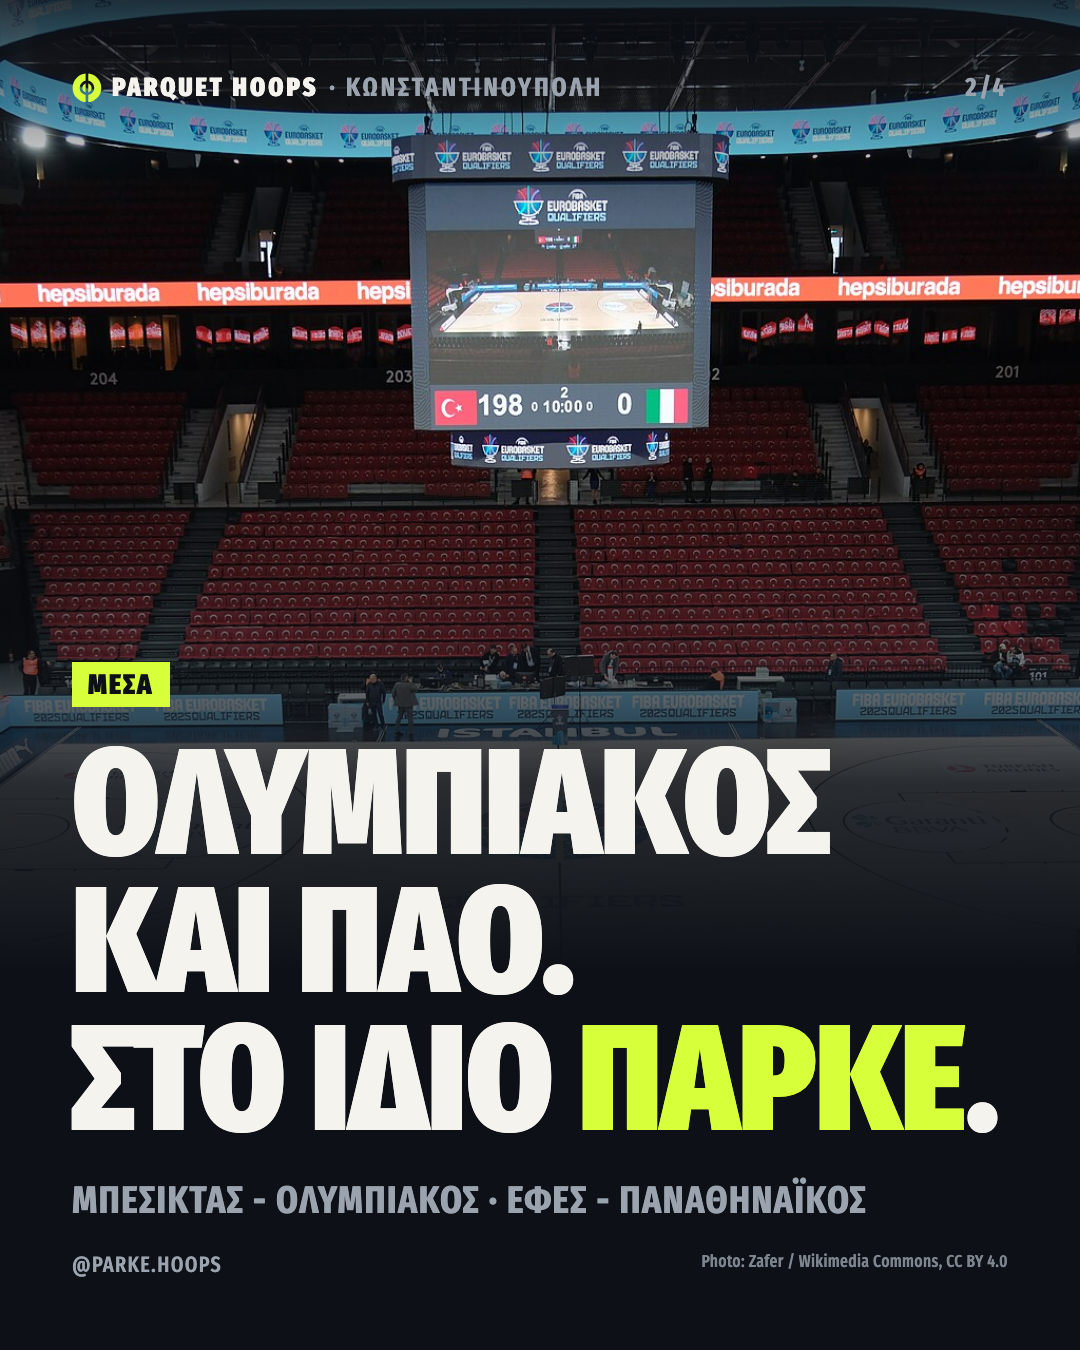
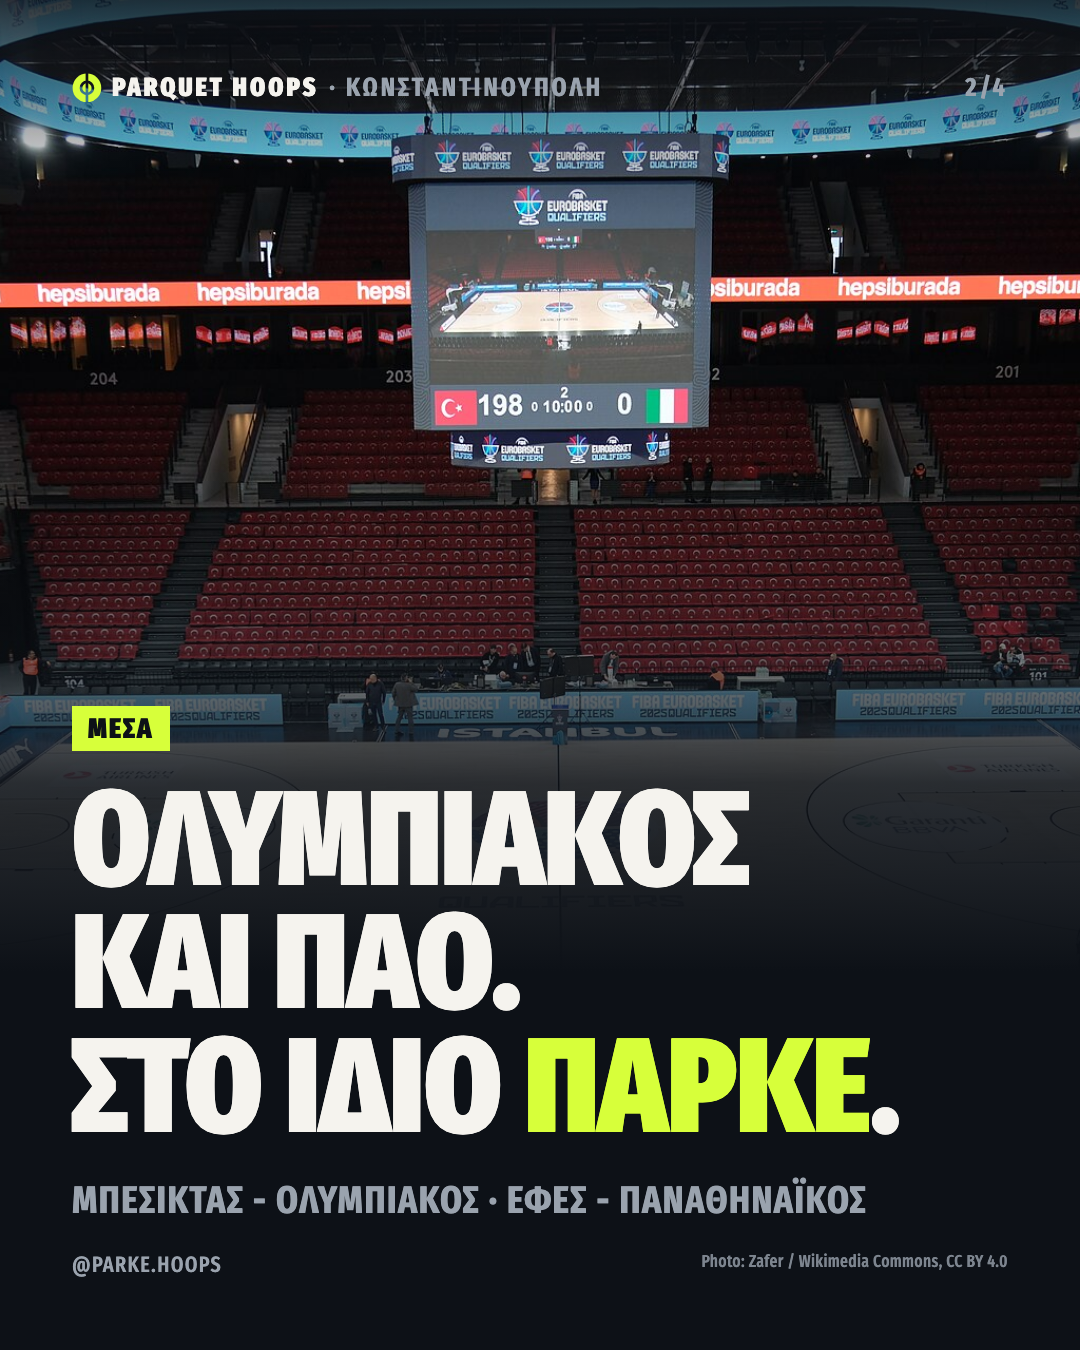
Arena headline: "The derby with no away team"; headlines auto-shrink to fit
EN slide 2 becomes "Built where a legend stood" (Abdi Ipekci site); EL
slide 1 "Ντέρμπι χωρίς φιλοξενούμενο". The renderer now shrinks any
headline or team name that would run off the card (long Greek words).

Changed region(s): [[0.0611, 0.4667, 0.9472, 0.84]]

diff --git a/scripts/render_cards.py b/scripts/render_cards.py
@@ -202,6 +202,13 @@ def page(spec, card, fmt, n, total, photo=None):
 <div class="top"><span class="brand">{centre_disc(BRAND['colors']['accent'])}<b>{html.escape(BRAND['name'][spec['lang']])}</b> · {html.escape(spec['round_label'])}</span><span>{page_no}</span></div>
 <div class="main">{card_html(card, spec["lang"])}</div>
 <div class="foot"><span>{html.escape(BRAND['handle'][fmt][spec['lang']])}</span>{credit}</div>
+<script>
+// Long words (e.g. Greek) must never run off the card: shrink a headline until it fits its box.
+for (const el of document.querySelectorAll('.title, .team')) {{
+  let fs = parseFloat(getComputedStyle(el).fontSize);
+  while (el.scrollWidth > el.clientWidth + 1 && fs > 40) {{ fs -= 4; el.style.fontSize = fs + 'px'; }}
+}}
+</script>
 </body></html>"""
 
 

diff --git a/arenas/E2026/turkcell-basketball-development-center/post.en.md b/arenas/E2026/turkcell-basketball-development-center/post.en.md
@@ -4,7 +4,7 @@
 - Wikipedia lists the professional tenants as **Anadolu Efes and Galatasaray**; the EuroLeague API lists **Anadolu Efes and Besiktas** as home teams this season. The cards and copy use the EuroLeague figure (Besiktas). Wikipedia is probably out of date, but check.
 - Wikidata has two dates: inception Aug 2024 (P571) and opened 29 Sept 2024 (P1619). We use 29 Sept 2024, which Wikipedia also gives as the official opening.
 - The high school (200 students, 8 classrooms), the hotel and the basketball museum all come from Wikipedia only. Used on slide 4 and in the caption.
-- It stands where Abdi İpekçi Arena stood (opened 1989, closed 2017, demolished 2018), per Wikipedia. Used in the caption.
+- It stands where Abdi İpekçi Arena stood (opened 1989, closed 2017, demolished 2018), per Wikipedia. Used on slide 2 and in the caption.
 
 **Why this angle:** this isn't just an arena, it's a whole basketball campus (seven blocks, a hotel, a museum, a high school), and on Thursday it hosts Efes vs Besiktas: an Istanbul derby where both teams play at home.
 
@@ -31,12 +31,12 @@ Efes vs Besiktas, Thu 22 Oct.
 
 **Slide 1 (hook, exterior photo):**
 ARENA OF THE WEEK
-ISTANBUL'S BASKETBALL CITY
-Anadolu Efes · Besiktas · Istanbul
+THE DERBY WITH NO AWAY TEAM.
+[Anadolu Efes + Beşiktaş crests] · Turkcell Basketball Development Center
 
 **Slide 2 (hook, interior photo):**
-ONE BOWL. TWO CLUBS. BOTH AT HOME.
-Efes vs Besiktas · Thursday
+BUILT WHERE A LEGEND STOOD.
+On the site of the Abdi İpekçi Arena
 
 **Slide 3 (facts):**
 Capacity: 10,000

diff --git a/arenas/E2026/turkcell-basketball-development-center/post.el.md b/arenas/E2026/turkcell-basketball-development-center/post.el.md
@@ -17,8 +17,8 @@ Cards: `cards/el/ig-1..4.png` (Instagram)
 
 **Slide 1 (hook, εξωτερική φωτό):**
 ΓΗΠΕΔΟ ΤΗΣ ΕΒΔΟΜΑΔΑΣ
-Η ΠΟΛΗ ΤΟΥ ΜΠΑΣΚΕΤ ΣΤΗΝ ΠΟΛΗ
-Αναντολού Εφές · Μπεσίκτας · Κωνσταντινούπολη
+ΝΤΕΡΜΠΙ ΧΩΡΙΣ ΦΙΛΟΞΕΝΟΥΜΕΝΟ.
+[σήματα Αναντολού Εφές + Μπεσίκτας] · Turkcell Basketball Development Center
 
 **Slide 2 (hook, εσωτερική φωτό):**
 ΟΛΥΜΠΙΑΚΟΣ ΚΑΙ ΠΑΟ. ΣΤΟ ΙΔΙΟ ΠΑΡΚΕ.
